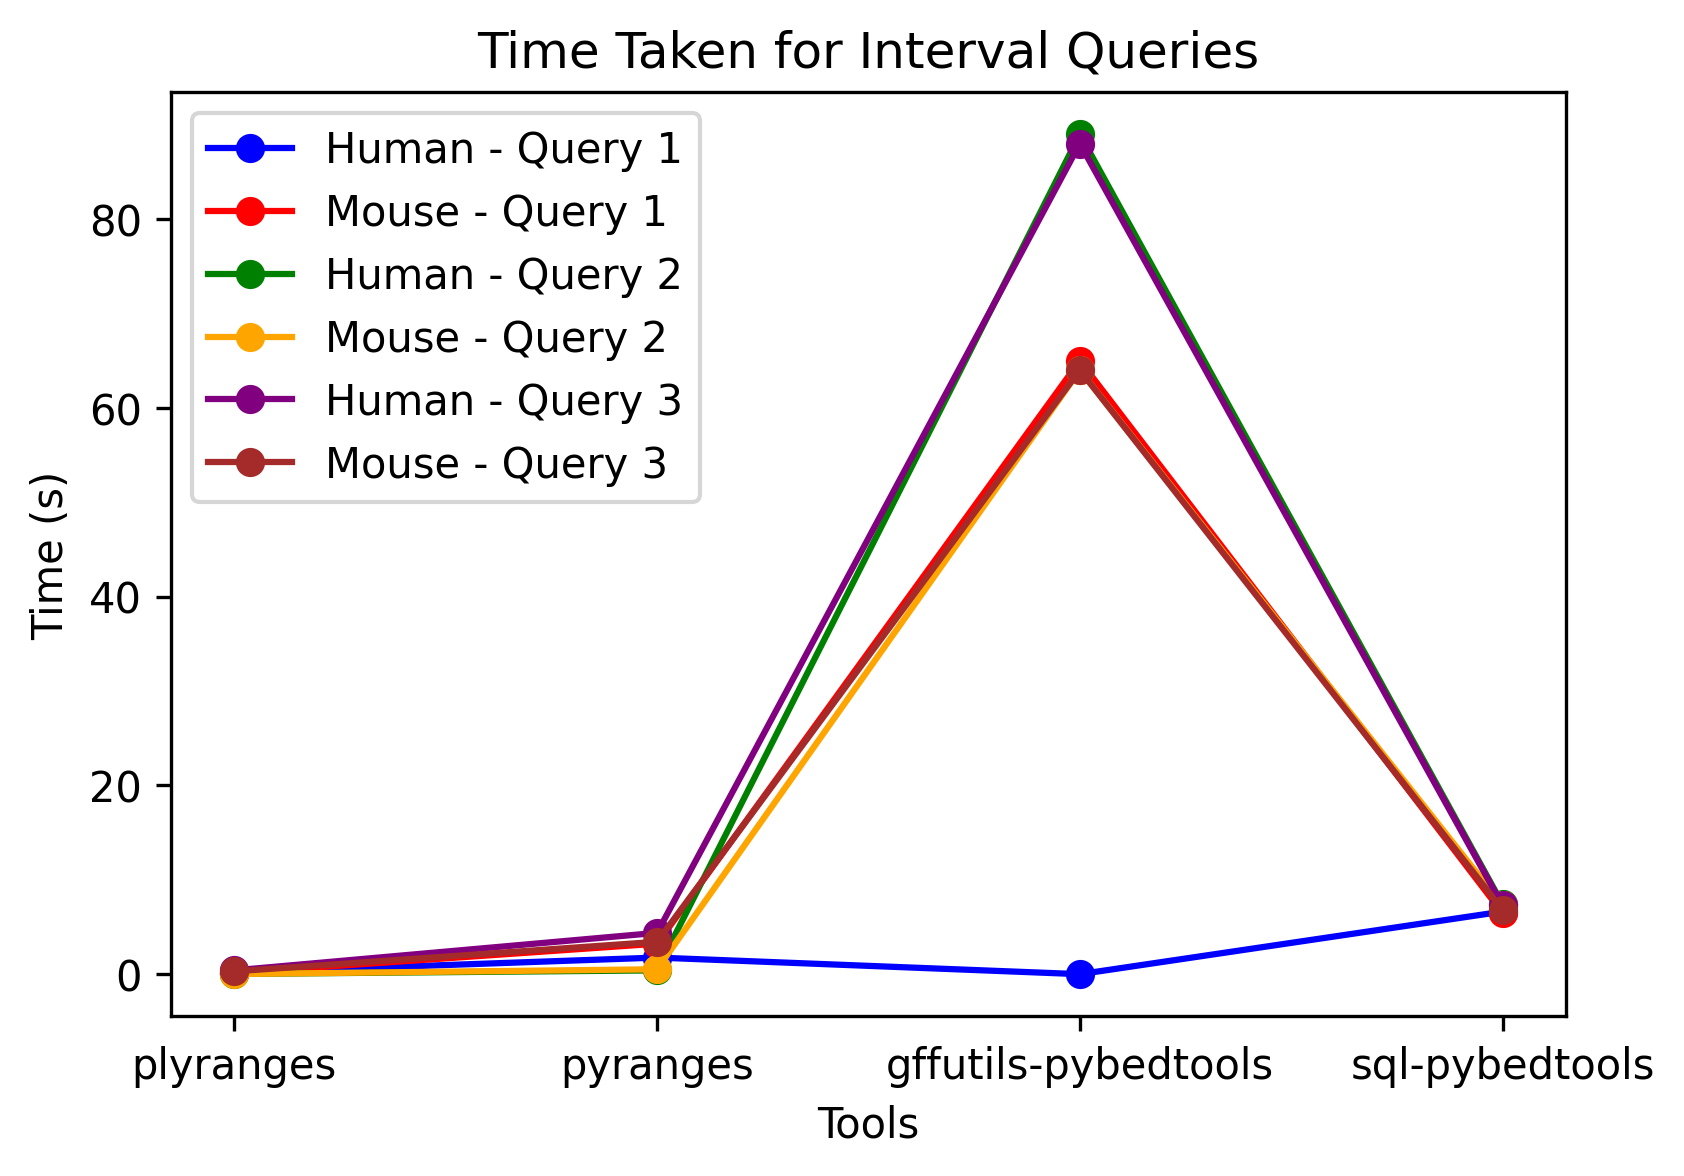
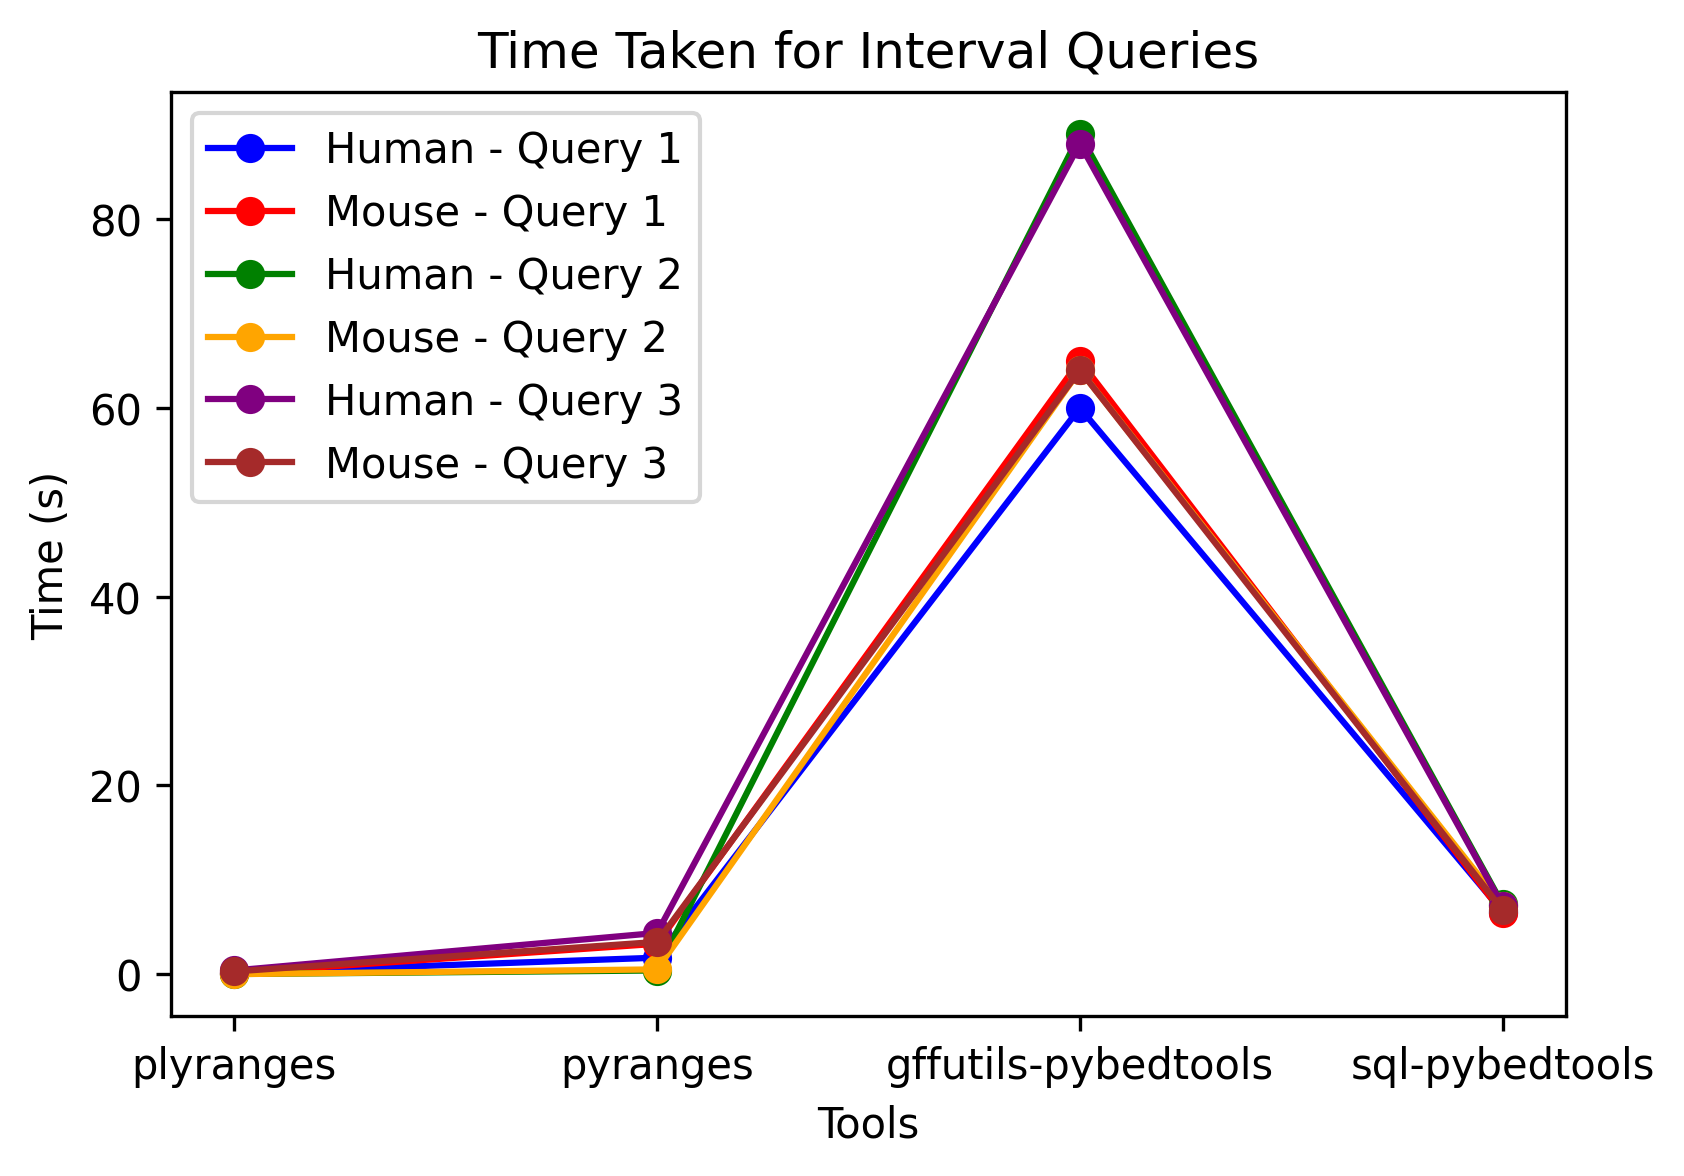
updated data

diff --git a/make_plots.py b/make_plots.py
@@ -19,7 +19,7 @@ human_agg3 = [0.085, 0.953, 5.52, 0.531]
 mouse_agg3 = [0.08, 0.915, 5.77, 0.542]
 
 # Interval query times (mean) in seconds
-human_int1 = [0.174, 1.76, 0, 6.63]
+human_int1 = [0.174, 1.76, 60, 6.63]
 mouse_int1 = [0.124, 3.23, 65, 6.46]
 
 human_int2 = [0.024, 0.399, 89, 7.41]
